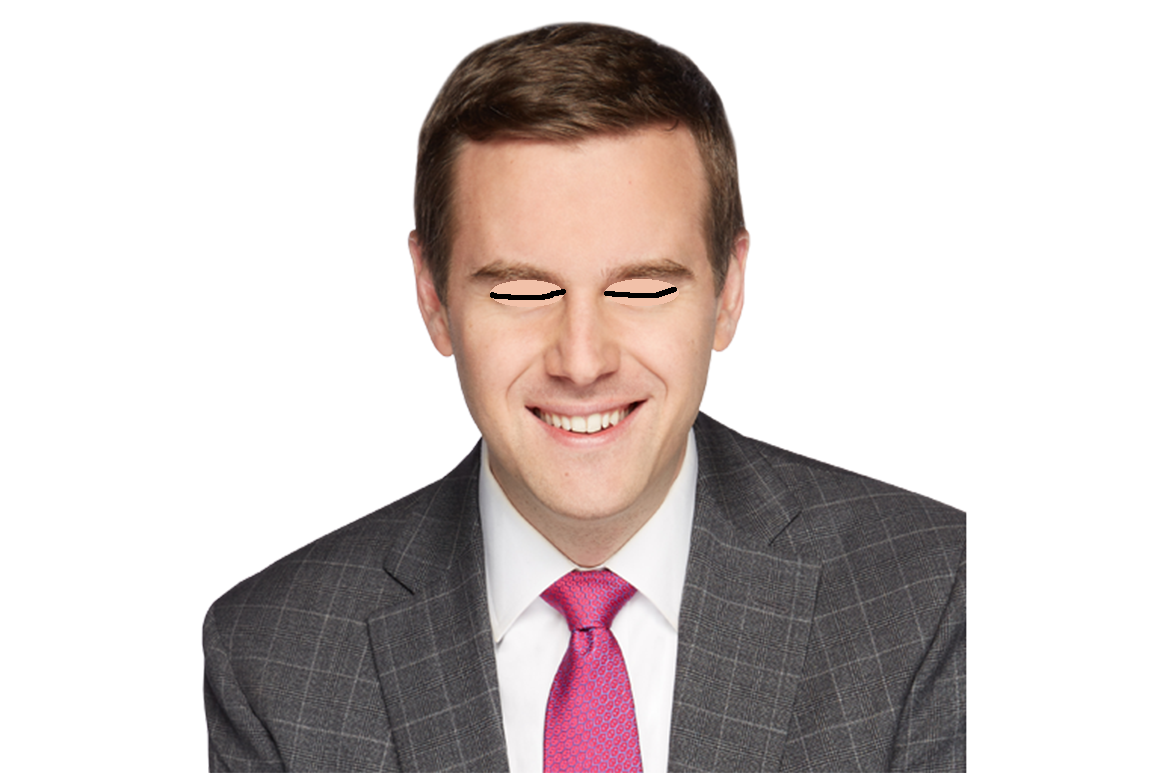
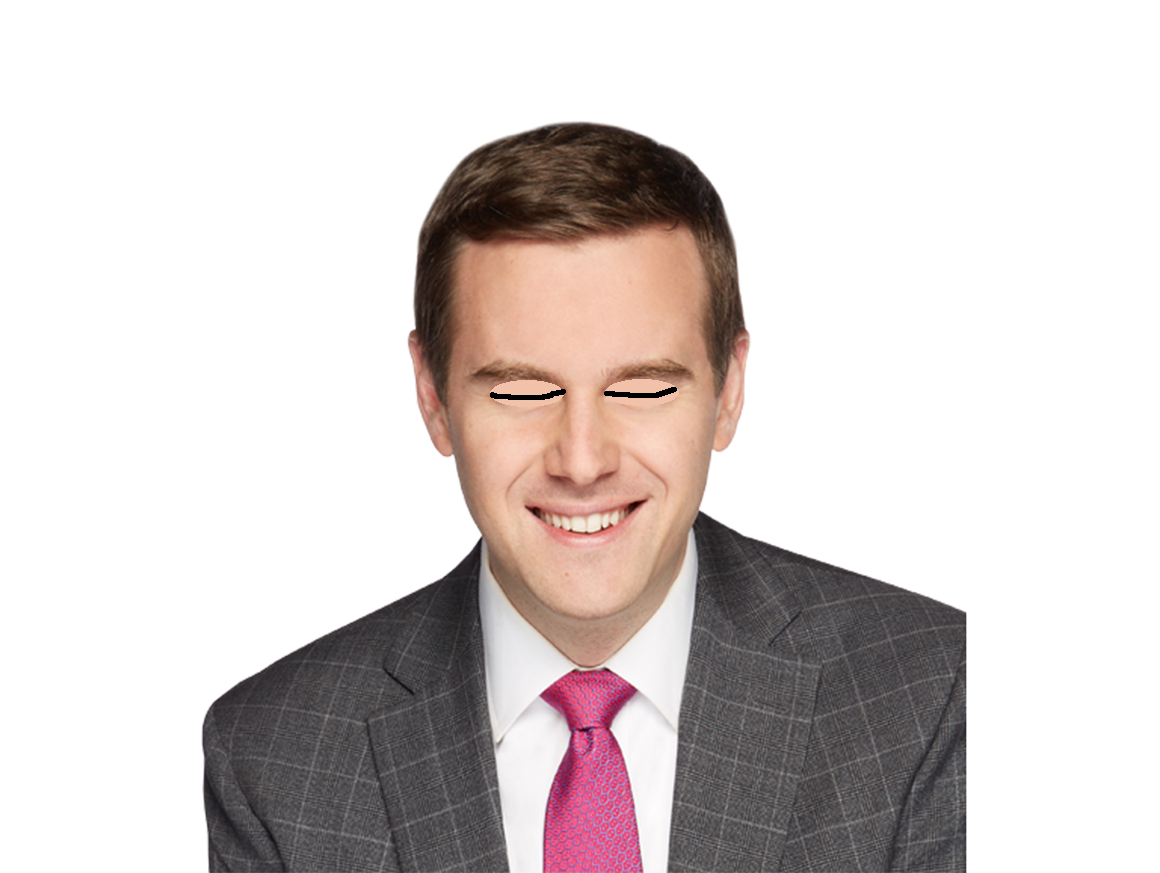
flexbox!

Changed region(s): [[0.1552, 0.031, 0.8379, 0.9935], [0.1862, 0.9004, 0.2172, 0.9314]]

diff --git a/style.css b/style.css
@@ -1,6 +1,27 @@
-
+body{
+    /* overflow-y: hidden; */
+}
 #bg{
-    background-color: white;
+    background-color: transparent;
+    display: flex;
+    justify-content: right;
+    align-items:center;
+    flex-direction: row;
+}
+@media (max-width:1000px){
+    #bg {
+        flex-direction: column;
+    }
+    .div-left{
+        order: 1;
+    }
+    .div-right{
+        order: 2;
+    }
+    .jakob{
+        order: 3;
+    }
+    
 }
 
 h1 {
@@ -13,10 +34,18 @@ h1 {
 
 
 .jakob{
-    width: 100vw;
-    text-align: center;
-    position: absolute;
-    float:bottom;
+     /* position: relative; */
+     /* margin: auto; */
+     /* width: 70%; */
+     /* top: 0; */
+     /* left: 0; */
+     display: flex;
+     justify-content: center;
+     align-items: center;
+     order: 2;
+     /* min-height: 100vh; */
+     width: 80%;
+     /* background-color: blue; */
 }
 
 @keyframes example {
@@ -26,23 +55,75 @@ h1 {
 }
 
 img.anim{
+    /* position: absolute; */
+    /* top: 50%; */
+    /* left: 50%; */
+    /* display: block; */
+    margin: auto;
+
+    /* transform: translate(-50%, -50%); */
+    
+    /* margin-left: auto; */
+    /* margin-right: auto; */
+    /* width: 70%; */
+    /* min-width: 1160px; */
+    /* max-width: 1500px; */
+
+
     content: url("guy-benson.png");
     animation-name: example;
     animation-fill-mode: none;
     animation-duration: 4s;
     animation-iteration-count: infinite;
+    /* background-color: purple; */
+    
+    
 }
-
+#mouth{
+    content: url("rocky-horror-mouth.png");
+    /* margin: auto; */
+    position: absolute;
+    /* display: block; */
+    /* margin-left: auto; */
+    /* margin-right: auto; */
+    /* width: 100%; */
+    /* min-width: 1160px;
+    max-width: 1500px; */
+    /* top: 35px; */
+    /* transform: translate(-70%, -50%);
+    -ms-transform: translate(-50%, -50%); */
+    transform: scale(25%);
+    /* top: 450px; */
+    /* left: 350px; */
+    /* font-size: 16px;
+    padding: 12px 24px; */
+    /* border: none; */
+    /* cursor: pointer; */
+    /* border-radius: 5px; */
+    visibility: hidden;
+    
+}
 .div-right{
-    float: right;
+
+    margin: auto;
+    /* align-items: flex-end; */
+    /* background-color: red; */
+
+    /* float: right;
+    text-align: right;
     width: 9%;
+    display: inline; */
+    order: 3;
     
 }
 
 button.mid {
-    position: absolute;
-    top:50%;
-    transform: translateY(-50%);
+    margin: auto;
+    /* margin-top: 50%; */
+    /* vertical-align: middle; */
+    /* position: absolute; */
+    /* top:50%; */
+    /* transform: translateY(-50%); */
     background-color: transparent;
     color:lightgray;
     font-size: 170%;
@@ -50,13 +131,15 @@ button.mid {
     cursor: pointer;
 }
 .div-left{
-    float: left;
-    width: 10%;
-    
+    /* float: left; */
+    /* width: 10%; */
+    margin: auto;
+    order: 1;
 }
 
 button.mid:hover{
     text-shadow: 1px 1px 2px;
     transition: .2s;
 }
+
 

diff --git a/home.html b/home.html
@@ -3,22 +3,19 @@
     <head>
         <title>Jakob Coughlan</title>
         <link rel = "stylesheet" href="style.css">
-        <script src = "script.js"></script>
+        
 
     </head>
 
     <body>
-        <div id = "bg" onclick="changeBackground()">
-            <h1>Jakob Coughlan</h1>
+        <!-- <div id = "bg" onclick="changeBackground()"> -->
+        <h1>Jakob Coughlan</h1>
+        <div id = "bg" >
 
-            <div class = "jakob">
-                <img class = "anim" alt="Jakob" usemap="#workmap">
-
-                <map name="workmap">
-                    <area shape="rect" coords="34,44,270,350" alt="Computer" href="#top" onclick = "mouth()">
-                    <area shape="rect" coords="290,172,333,250" alt="Phone" href="#top">
-                    <area shape="circle" coords="337,300,44" alt="Coffee" href="#top">
-                </map>
+            <div class = "div-left">
+                <a href="projects.htm">
+                    <button class="mid">&lt;= Projects</button>
+                </a>
             </div>
 
             <div class = "div-right">
@@ -26,14 +23,23 @@
                     <button class="mid">Resume =></button>
                 </a>
             </div>
+            
+            <div class = "jakob">
+                <img class = "anim" alt="Jakob" usemap="#workmap">
 
-            <div class = "div-left">
-                <a href="projects.htm">
-                    <button class="mid">&lt;= Projects</button>
-                </a>
+                <map name="workmap">
+                    <area shape="rect" coords="524,400,648,435" alt="Computer" href="#" onclick = "mouth()">
+                </map>
+                
+                <img id = "mouth" alt = mouth>
+                
             </div>
+
+           
+
+           
         </div>
     </body>
-
+    <script src = "script.js"></script>
 
 </html>

diff --git a/script.js b/script.js
@@ -2,8 +2,18 @@
 let background = 0;
 
 function mouth() {
-    alert("You clicked the 'mouth'");
+    // alert("You clicked the 'mouth'");
+    const elem = document.getElementById('mouth');
+    if(elem.style.visibility == "visible"){
+        elem.style.visibility = "hidden";
+    }else{
+        elem.style.visibility = "visible";
+    }
+    
   }
+function mouth2(){
+    
+}
 
 function changeBackground(){
     background = background + 1;
